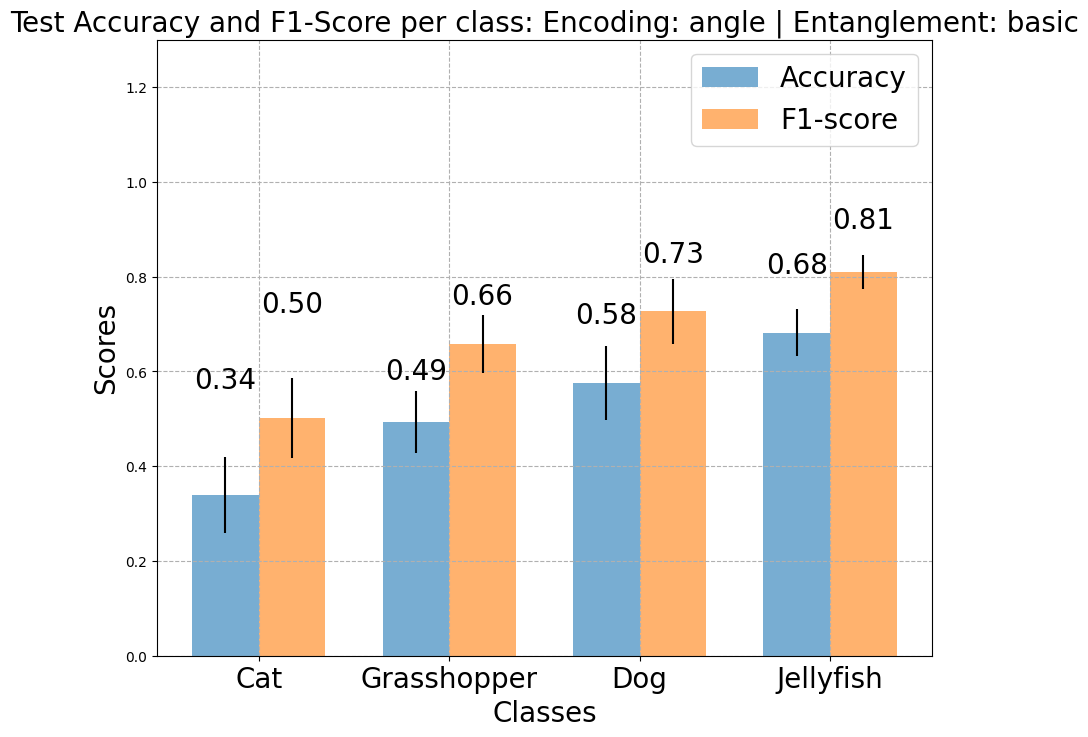
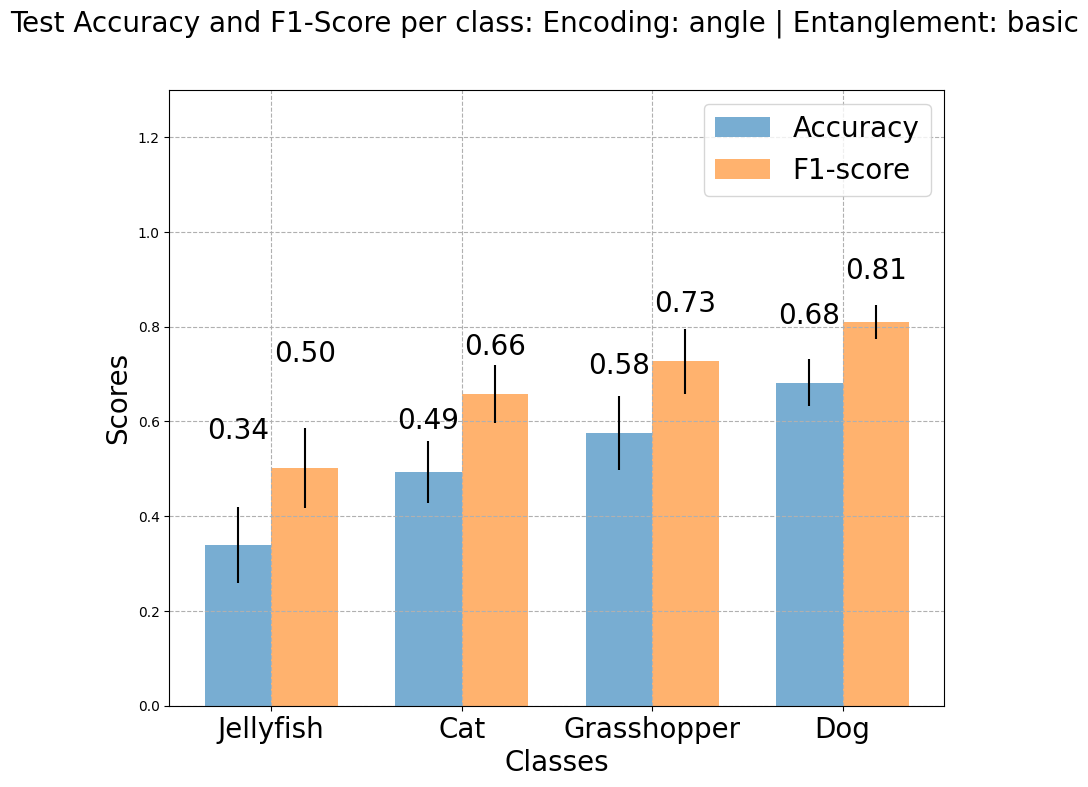
update figure for better look

diff --git a/Plots/generate_plots.py b/Plots/generate_plots.py
@@ -53,7 +53,7 @@ def plot_accuracy_f1_score(df, encoding_type, entanglement_type, result_type):
 
     ax.set_xlabel('Classes',fontsize=20)
     ax.set_ylabel('Scores',fontsize=20)
-    ax.set_title(result_type+" Accuracy and F1-Score per class: Encoding: "+encoding_type+" | "+"Entanglement: "+entanglement_type,fontsize=20)
+    fig.suptitle(result_type+" Accuracy and F1-Score per class: Encoding: "+encoding_type+" | "+"Entanglement: "+entanglement_type,fontsize=20)
     ax.set_xticks(x)
     ax.set_xticklabels(class_label,fontsize=20)
     ax.set_ylim(0, 1.3)  # Scores range from 0 to 1
@@ -91,10 +91,10 @@ def plot_exp(df, encoding_type, entanglement_type, result_type):
 
     ax.set_xlabel('Classes',fontsize=20)
     ax.set_ylabel(r'$\mathcal{E}_{QNN}$',fontsize=20)
-    ax.set_title(result_type + " Explainibility "+ r'$\mathcal{E}_{QNN}$' + " per class: Encoding: "+encoding_type+" | "+"Entanglement: "+entanglement_type,fontsize=20)
+    fig.suptitle(result_type + " Explainibility "+ r'$\mathcal{E}_{QNN}$' + " per class: Encoding: "+encoding_type+" | "+"Entanglement: "+entanglement_type,fontsize=20)
     ax.set_xticks(x)
     ax.set_xticklabels(class_label,fontsize=20)
-    # ax.set_ylim(0, 40)  
+    ax.set_ylim(0, 45)  
     ax.grid(True, linestyle='--')
 
     # Show values on bars
